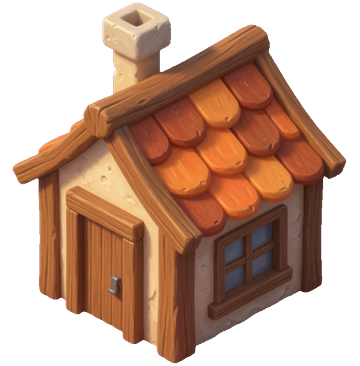
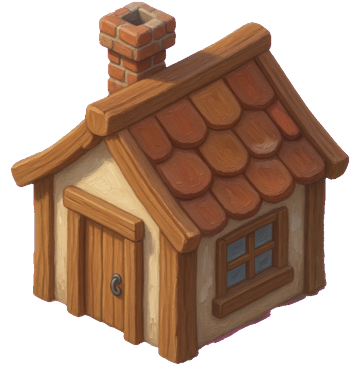
建造物和树换成宣传图油画笔触，草地去棋盘、路和水塘跟黄昏统一

Changed region(s): [[0.0306, 0.0, 0.9778, 1.0], [0.3667, 0.2705, 0.4278, 0.3306]]

diff --git a/src/js/mapview-iso.js b/src/js/mapview-iso.js
@@ -1603,6 +1603,13 @@
     },
     _tree(x, y, s) {
       const ctx = this._ctx;
+      const im = this._img && this._img.tree;
+      if (im && im.width) {
+        const h = s * 1.85, w = h * (im.width / im.height);
+        this._shadow(x + s * 0.14, y + s * 0.05, s * 0.58, 0.16);
+        ctx.drawImage(im, x - w / 2, y - h + s * 0.08, w, h);
+        return;
+      }
       ctx.fillStyle = '#5a3a22';
       ctx.beginPath();
       ctx.moveTo(x - s * 0.07, y + s * 0.04);
@@ -1786,11 +1793,11 @@
       ctx.restore();
       // 2) surface water — 黄昏暖倒影，不再是正午冰蓝
       const g = ctx.createLinearGradient(0, minY - ry + oy, 0, maxY + ry + oy);
-      g.addColorStop(0, '#d8eef0');
-      g.addColorStop(0.28, '#f0d8a4');
-      g.addColorStop(0.62, '#6eb0b8');
-      g.addColorStop(1, '#3d8490');
-      ctx.fillStyle = g; blobs(0.84, 0.82); ctx.fill();
+      g.addColorStop(0, '#e8f0dc');
+      g.addColorStop(0.22, '#f2d8a0');
+      g.addColorStop(0.55, '#6aa8b0');
+      g.addColorStop(1, '#3a7a86');
+      ctx.fillStyle = g; blobs(0.88, 0.84); ctx.fill();
       // 左上受光的一抹金
       let cxp = 0, cyp = 0;
       for (const c of cells) { cxp += c.x; cyp += c.y; }
@@ -1822,10 +1829,13 @@
           ctx.restore();
         }
       }
-      // 4) a small lily pad + flower for charm
-      const lp = cells[0];
-      ctx.fillStyle = '#5fae5a'; ctx.beginPath(); ctx.ellipse(lp.x - rx * 0.26, lp.y + oy + th * 0.18, rx * 0.24, ry * 0.22, 0, 0, 6.283); ctx.fill();
-      ctx.fillStyle = '#f6c0d8'; ctx.beginPath(); ctx.arc(lp.x - rx * 0.26, lp.y + oy + th * 0.18, rx * 0.085, 0, 6.283); ctx.fill();
+      // 4) 暖色草岸，不要粉花睡莲（宣传图是一条溪，不是卡通塘）
+      ctx.save();
+      ctx.globalAlpha = 0.35;
+      ctx.strokeStyle = '#6a8a40';
+      ctx.lineWidth = Math.max(2, th * 0.14);
+      blobs(1.02, 1.04); ctx.stroke();
+      ctx.restore();
       ctx.restore();
     },
     _startLoop() {
@@ -1843,9 +1853,9 @@
       const ctx = this._ctx, tw = this._tw(), th = this._th();
       // 金色黄昏天空（对齐 2026-08-15 宣传插画）：上暖下金，草地再盖住下半。
       const base = ctx.createLinearGradient(0, 0, 0, H);
-      base.addColorStop(0, '#f4c89a');
-      base.addColorStop(0.28, '#f6d4a8');
-      base.addColorStop(0.50, '#f0dfb4');
+      base.addColorStop(0, '#f3b090');
+      base.addColorStop(0.22, '#f6c49a');
+      base.addColorStop(0.48, '#f0d8a8');
       base.addColorStop(0.68, '#c8c07a');
       base.addColorStop(1, '#8eae4a');
       ctx.fillStyle = base; ctx.fillRect(0, 0, W, H);
@@ -1945,11 +1955,11 @@
       const N = 46;
       // 三层叠出手绘土路: 宽的路基 → 亮的路面 → 两道车辙
       const passes = [
-        { w: tw * 0.78, col: 'rgba(86,122,48,0.40)', off: 0 },
-        { w: tw * 0.56, col: 'rgba(160,126,82,0.58)', off: 0 },
-        { w: tw * 0.40, col: 'rgba(214,178,122,0.68)', off: 0 },
-        { w: tw * 0.045, col: 'rgba(120,92,56,0.45)', off: tw * 0.09 },
-        { w: tw * 0.045, col: 'rgba(120,92,56,0.45)', off: -tw * 0.09 },
+        { w: tw * 0.82, col: 'rgba(86,122,48,0.28)', off: 0 },
+        { w: tw * 0.58, col: 'rgba(168,128,78,0.86)', off: 0 },
+        { w: tw * 0.42, col: 'rgba(214,176,118,0.94)', off: 0 },
+        { w: tw * 0.05, col: 'rgba(110,82,48,0.55)', off: tw * 0.10 },
+        { w: tw * 0.05, col: 'rgba(110,82,48,0.55)', off: -tw * 0.10 },
       ];
       for (const ps of passes) {
         ctx.lineCap = 'round'; ctx.lineJoin = 'round';
@@ -2188,8 +2198,12 @@
       const hl = this._cell(0, -3).y;   // 林线 y(与 _drawHorizon 同一条对角线)
       // 整面铺草甸底色: 菱形之间的反锯齿细缝不再漏出天空色(亮格线的元凶)。
       // 从林脚以下起铺(hl+0.8th), 树脚由菱形格自然探上去咬合, 不再一刀切。
-      const gTop = Math.max(0, hl + th * 2.8);
-      ctx.fillStyle = 'rgb(127,160,80)';
+      const gTop = Math.max(0, hl + th * 2.4);
+      const meadow = ctx.createLinearGradient(0, gTop, 0, H);
+      meadow.addColorStop(0, 'rgb(127,160,80)');
+      meadow.addColorStop(0.4, 'rgb(118,158,68)');
+      meadow.addColorStop(1, 'rgb(96,148,58)');
+      ctx.fillStyle = meadow;
       ctx.fillRect(0, gTop, W, H - gTop);
       for (let gy = gy0; gy <= gy1; gy++) {
         for (let gx = gx0; gx <= gx1; gx++) {
@@ -2229,8 +2243,9 @@
             bb2 = bb2 * (1 - fade) + 80 * fade;
           }
           ctx.fillStyle = 'rgb(' + (rr | 0) + ',' + (gg | 0) + ',' + (bb2 | 0) + ')';
-          ctx.globalAlpha = dHl < 1.15 ? Math.max(0.15, (dHl - 0.7) / 0.45) : 1;
-          this._diamond(c.x, c.y, tw * 1.08, th * 1.08);
+          ctx.globalAlpha = dHl < 1.15 ? Math.max(0.12, (dHl - 0.7) / 0.45) : 0.55;
+          ctx.beginPath();
+          ctx.ellipse(c.x, c.y, tw * 0.78, th * 0.68, 0, 0, 6.283);
           ctx.fill();
           ctx.globalAlpha = 1;
           // 点缀: 草簇(内外都有, 外面更密) / 小花(只在农场内)
@@ -2349,17 +2364,16 @@
       hill(th * 4.0, th * 1.20, '#a8b86a', 2.6);
       hill(th * 2.5, th * 0.95, '#7fa050', 0.9);
       // 坡上散落圆树 + 几棵细柏，像宣传图后景，不要一排尖塔
-      const step = tw * 2.2;
+      const step = tw * 1.55;
       const x0 = -((this._camX * 0.55) % step) - step;
       for (let x = x0; x < W + step; x += step) {
         const seed = Math.abs(Math.round((x + this._camX * 0.55) / step));
         const hsh = ((seed * 2654435761) >>> 0) % 1000 / 1000;
-        if (hsh < 0.22) continue;
+        if (hsh < 0.16) continue;
         const tx = x + (hsh - 0.5) * tw;
         const ty = hl - th * (1.4 + hsh * 3.2);
         const ts = tw * (0.42 + hsh * 0.50);
-        if (hsh > 0.78) this._cypress(tx, ty, ts * 1.15);
-        else this._tree(tx, ty, ts);
+        this._tree(tx, ty, ts);
       }
     },
     /* 地平薄雾: 必须画在**地面之后**(第一版画在 _drawHorizon 里, 随即被地面
@@ -2695,7 +2709,16 @@
       const cc = this._cell(o.gx + (b.w - 1) / 2, o.gy + (b.h - 1) / 2);
       const front = this._cell(o.gx + (b.w - 1), o.gy + (b.h - 1));
       const by = front.y + th / 2 + th * 0.18;
-      if (!moving) this._shadow(cc.x, by - th * 0.35, b.w * tw * 0.7, 0.18);   // contact shadow grounds the building
+      if (!moving) {
+        this._shadow(cc.x + tw * 0.22, by - th * 0.18, b.w * tw * 0.82, 0.16);
+        const ctxS = this._ctx;
+        ctxS.save();
+        ctxS.fillStyle = 'rgba(40,52,18,0.10)';
+        ctxS.beginPath();
+        ctxS.ellipse(cc.x + tw * 0.55, by + th * 0.06, b.w * tw * 0.62, th * 0.42, 0.55, 0, 6.283);
+        ctxS.fill();
+        ctxS.restore();
+      }
       ctx.globalAlpha = moving ? 0.82 : 1;
       // 按压反馈（audit B2 P2）：被按住的建筑以底边为锚缩到 94%（Hay Day 式
       // squash），与地块按压高亮同一套 _down/_up 生命周期。

diff --git a/docs/plans/2026-08-15-keyart-parity.md b/docs/plans/2026-08-15-keyart-parity.md
@@ -1,25 +1,25 @@
-# 场景对齐宣传图 8.jpg（2026-08-15）
+# 场景对齐宣传图 8.jpg（2026-08-15，第 2 轮）
 
-目标：游戏内成熟菜 + 整场（山/田/光）至少跟
-`promo/keyart-farm-square.jpg`（即 session `images/8.jpg`）一致，能超则超。
+目标：地形环境、建造物、整场画面效果达到
+`promo/keyart-farm-square.jpg` 同一档（油画黄昏农场）。
 
-约束：程序化世界（`USE_PAINTED_BG=false`）；vanilla JS；不改存档铁律；
-本轮不部署，除非对照过关且 Chris 说上。
+约束：程序化世界（`USE_PAINTED_BG=false`）；vanilla JS；不改存档铁律。
 
 ## 验收清单
 
-1. **成熟菜**：8 种 stage-3 是宣传图同款油画笔触，坐在垄沟里，无品红底板、
-   无脏根团、无橙色描边、无红四方。对照截图里能认出青菜/番茄/茄子/韭菜/
-   辣椒/黄瓜/香菜/蒜，且不像超市静物贴纸。
-2. **田**：已解锁地块连成一块扁垄沟田（垄线跨格连续），不是一格一块立方土。
-3. **远景**：滚圆金绿草坡 + 零星圆树，无锯齿云杉墙，山脚无深色横带/棋盘格。
-4. **构图对照**：干净截图（无成就 toast、无彩纸）与 8.jpg 左右并放，
-   菜在田上、房在田外。
-5. **语法**：`node --check src/js/mapview-iso.js` 通过。
+1. **建造物**：家/鸡舍/谷仓/菜摊/温室/井/水车/灯笼是宣传图同款油画笔触，
+   无 3D 粘土感、无品红底板、无方地盘。
+2. **树**：圆冠油画树，不是描边贴纸或两团绿椭圆。
+3. **草地**：一整片金绿草甸，近景看不到菱形棋盘。
+4. **远山/天空**：暖金黄昏、滚圆草坡、坡上散树。
+5. **路/水**：土路有车辙；水塘是暖色岸线的一汪水，不是浅蓝云朵。
+6. **对照**：干净截图与 8.jpg 并放，房子/树/田/山气质一致。
+7. **语法**：`node --check src/js/mapview-iso.js` 通过。
 
 ## 步骤
 
-- [x] s1 远山：再压山脚缝、远景不画菱形格
-- [x] s2 土床：世界对齐垄沟，BED 几乎顶满格
-- [x] s3 8 张成熟菜按 8.jpg 重画并抠净
-- [x] s4 干净构图截图，对照验收（见 promo/_verify-target.png）
+- [x] s1–s4 成熟菜 + 垄沟田（59abb4b）
+- [x] e1 盘点差距
+- [x] e2 8 座建造物 + 树 按 8.jpg 重画
+- [x] e3 草地去棋盘、水塘/路/山/光色
+- [x] e4 截图对照并提交（promo/_verify-target.png）
